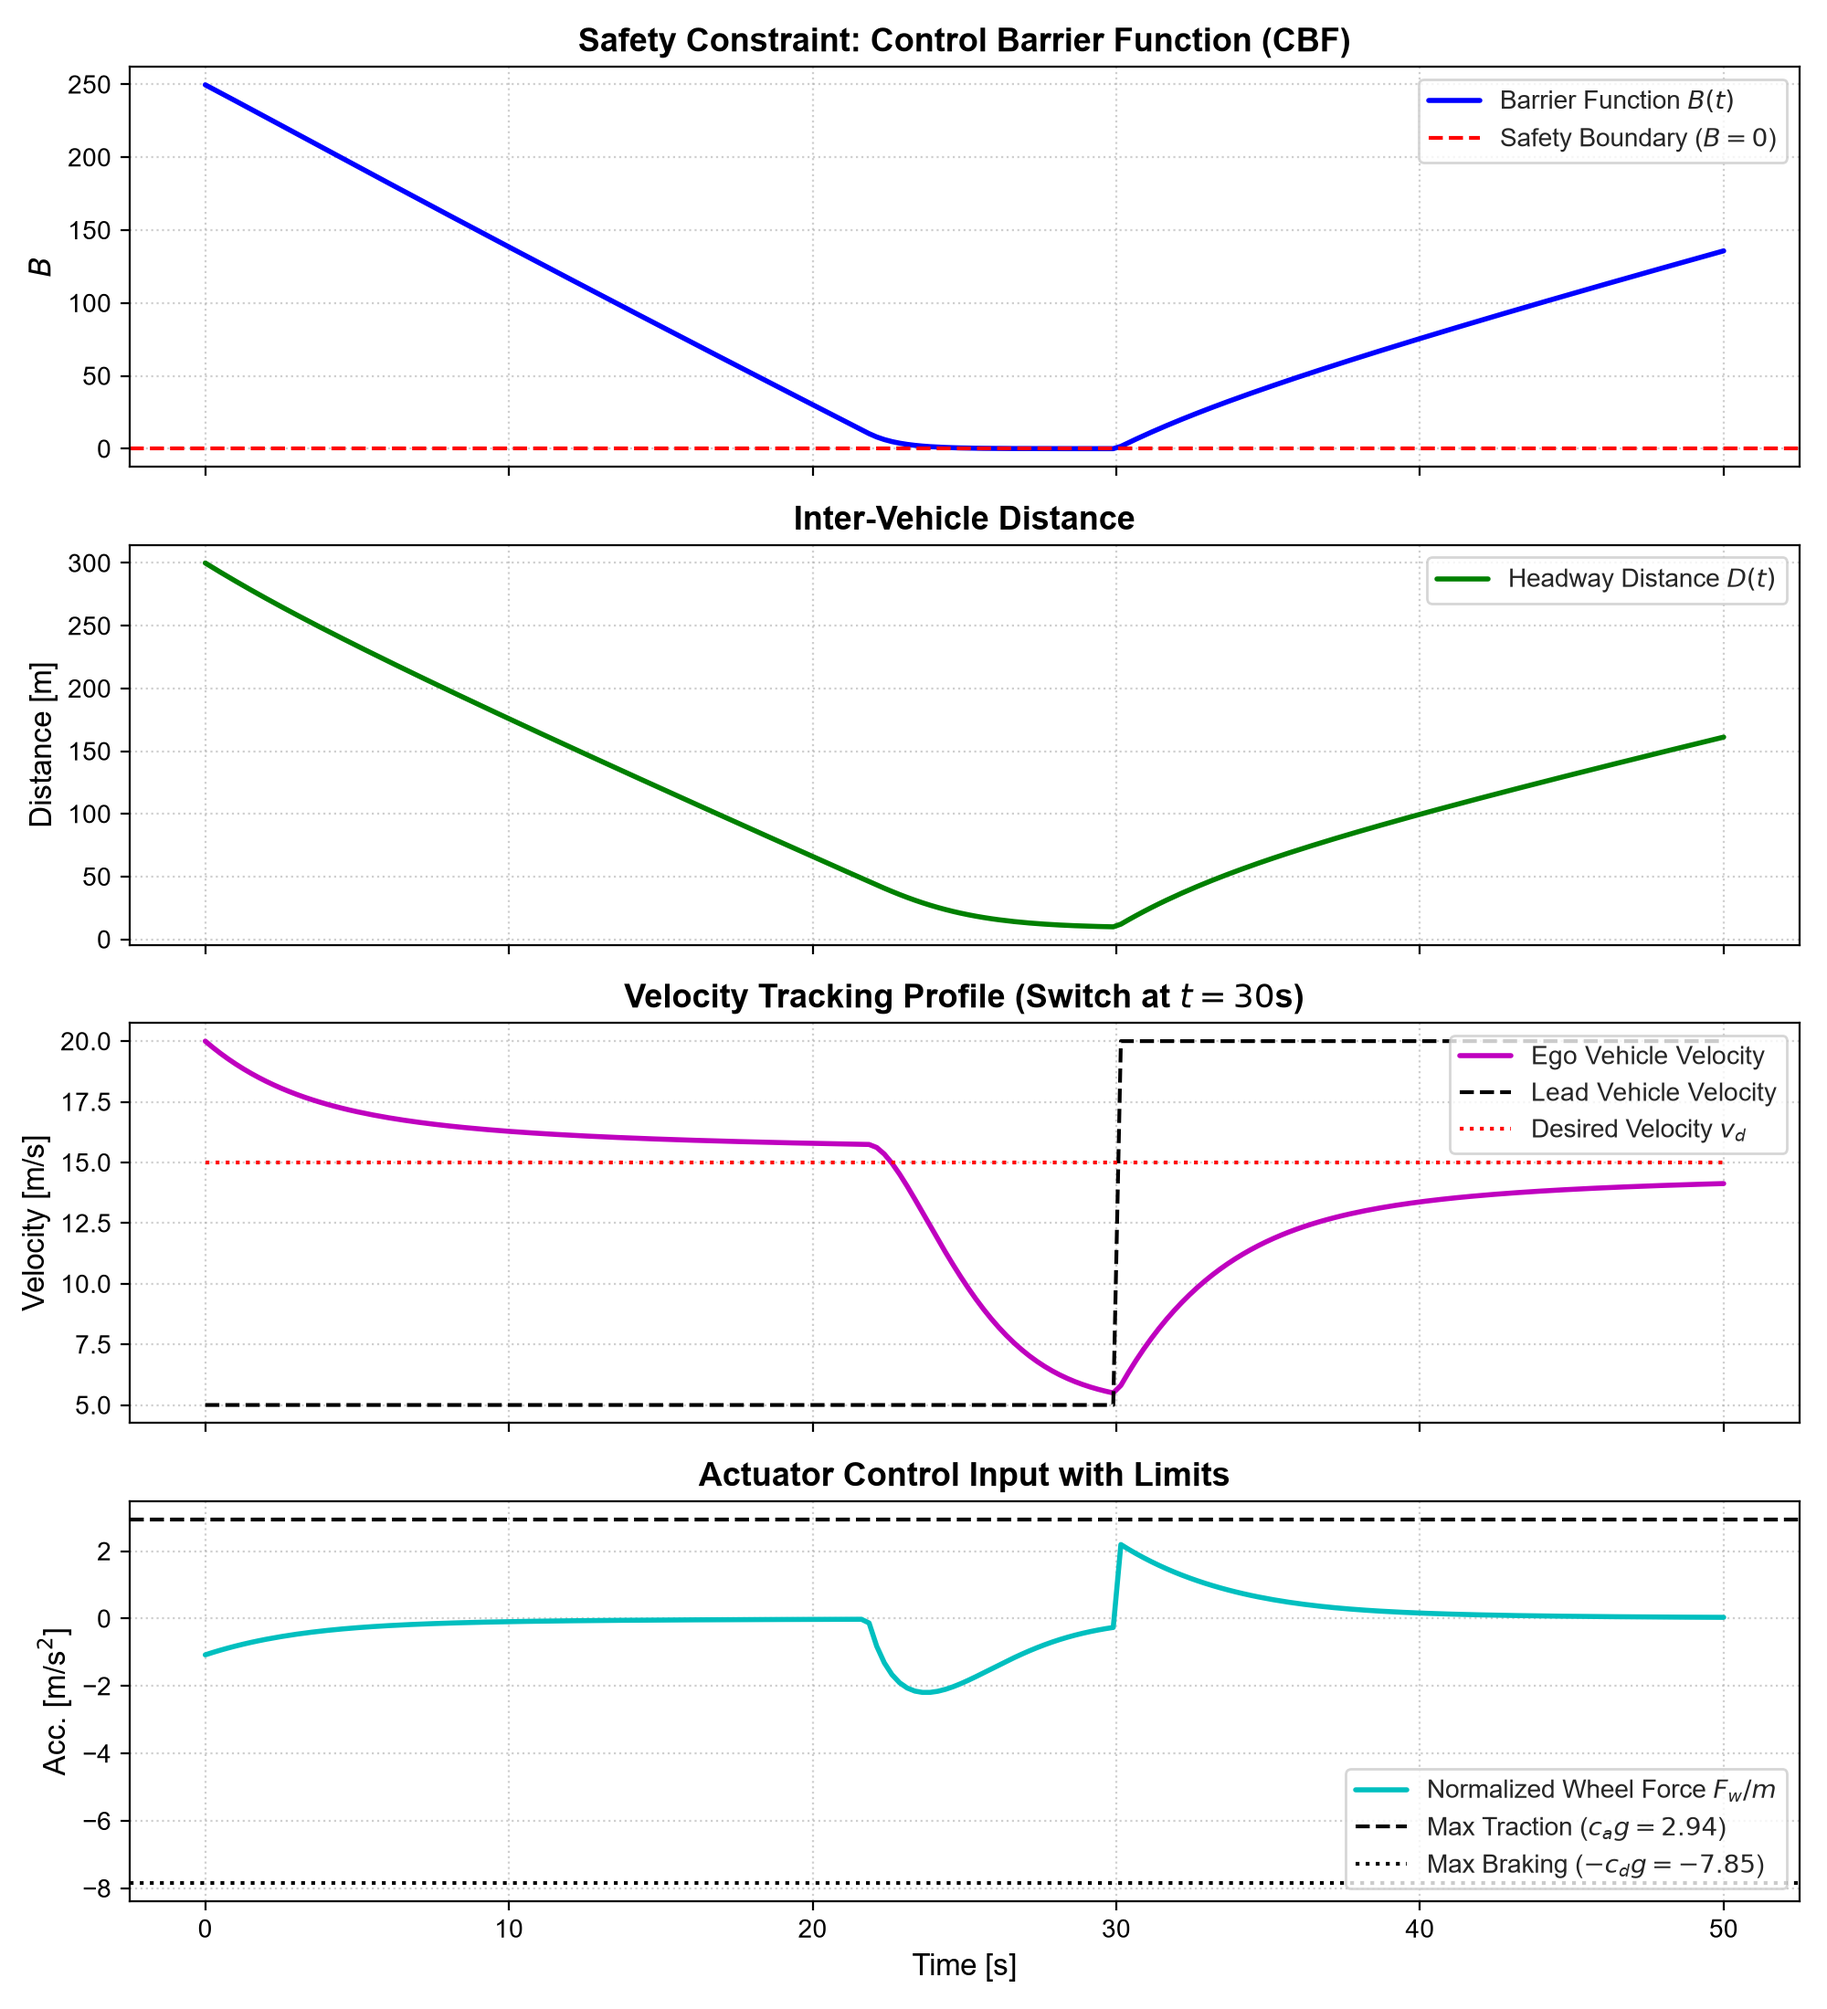
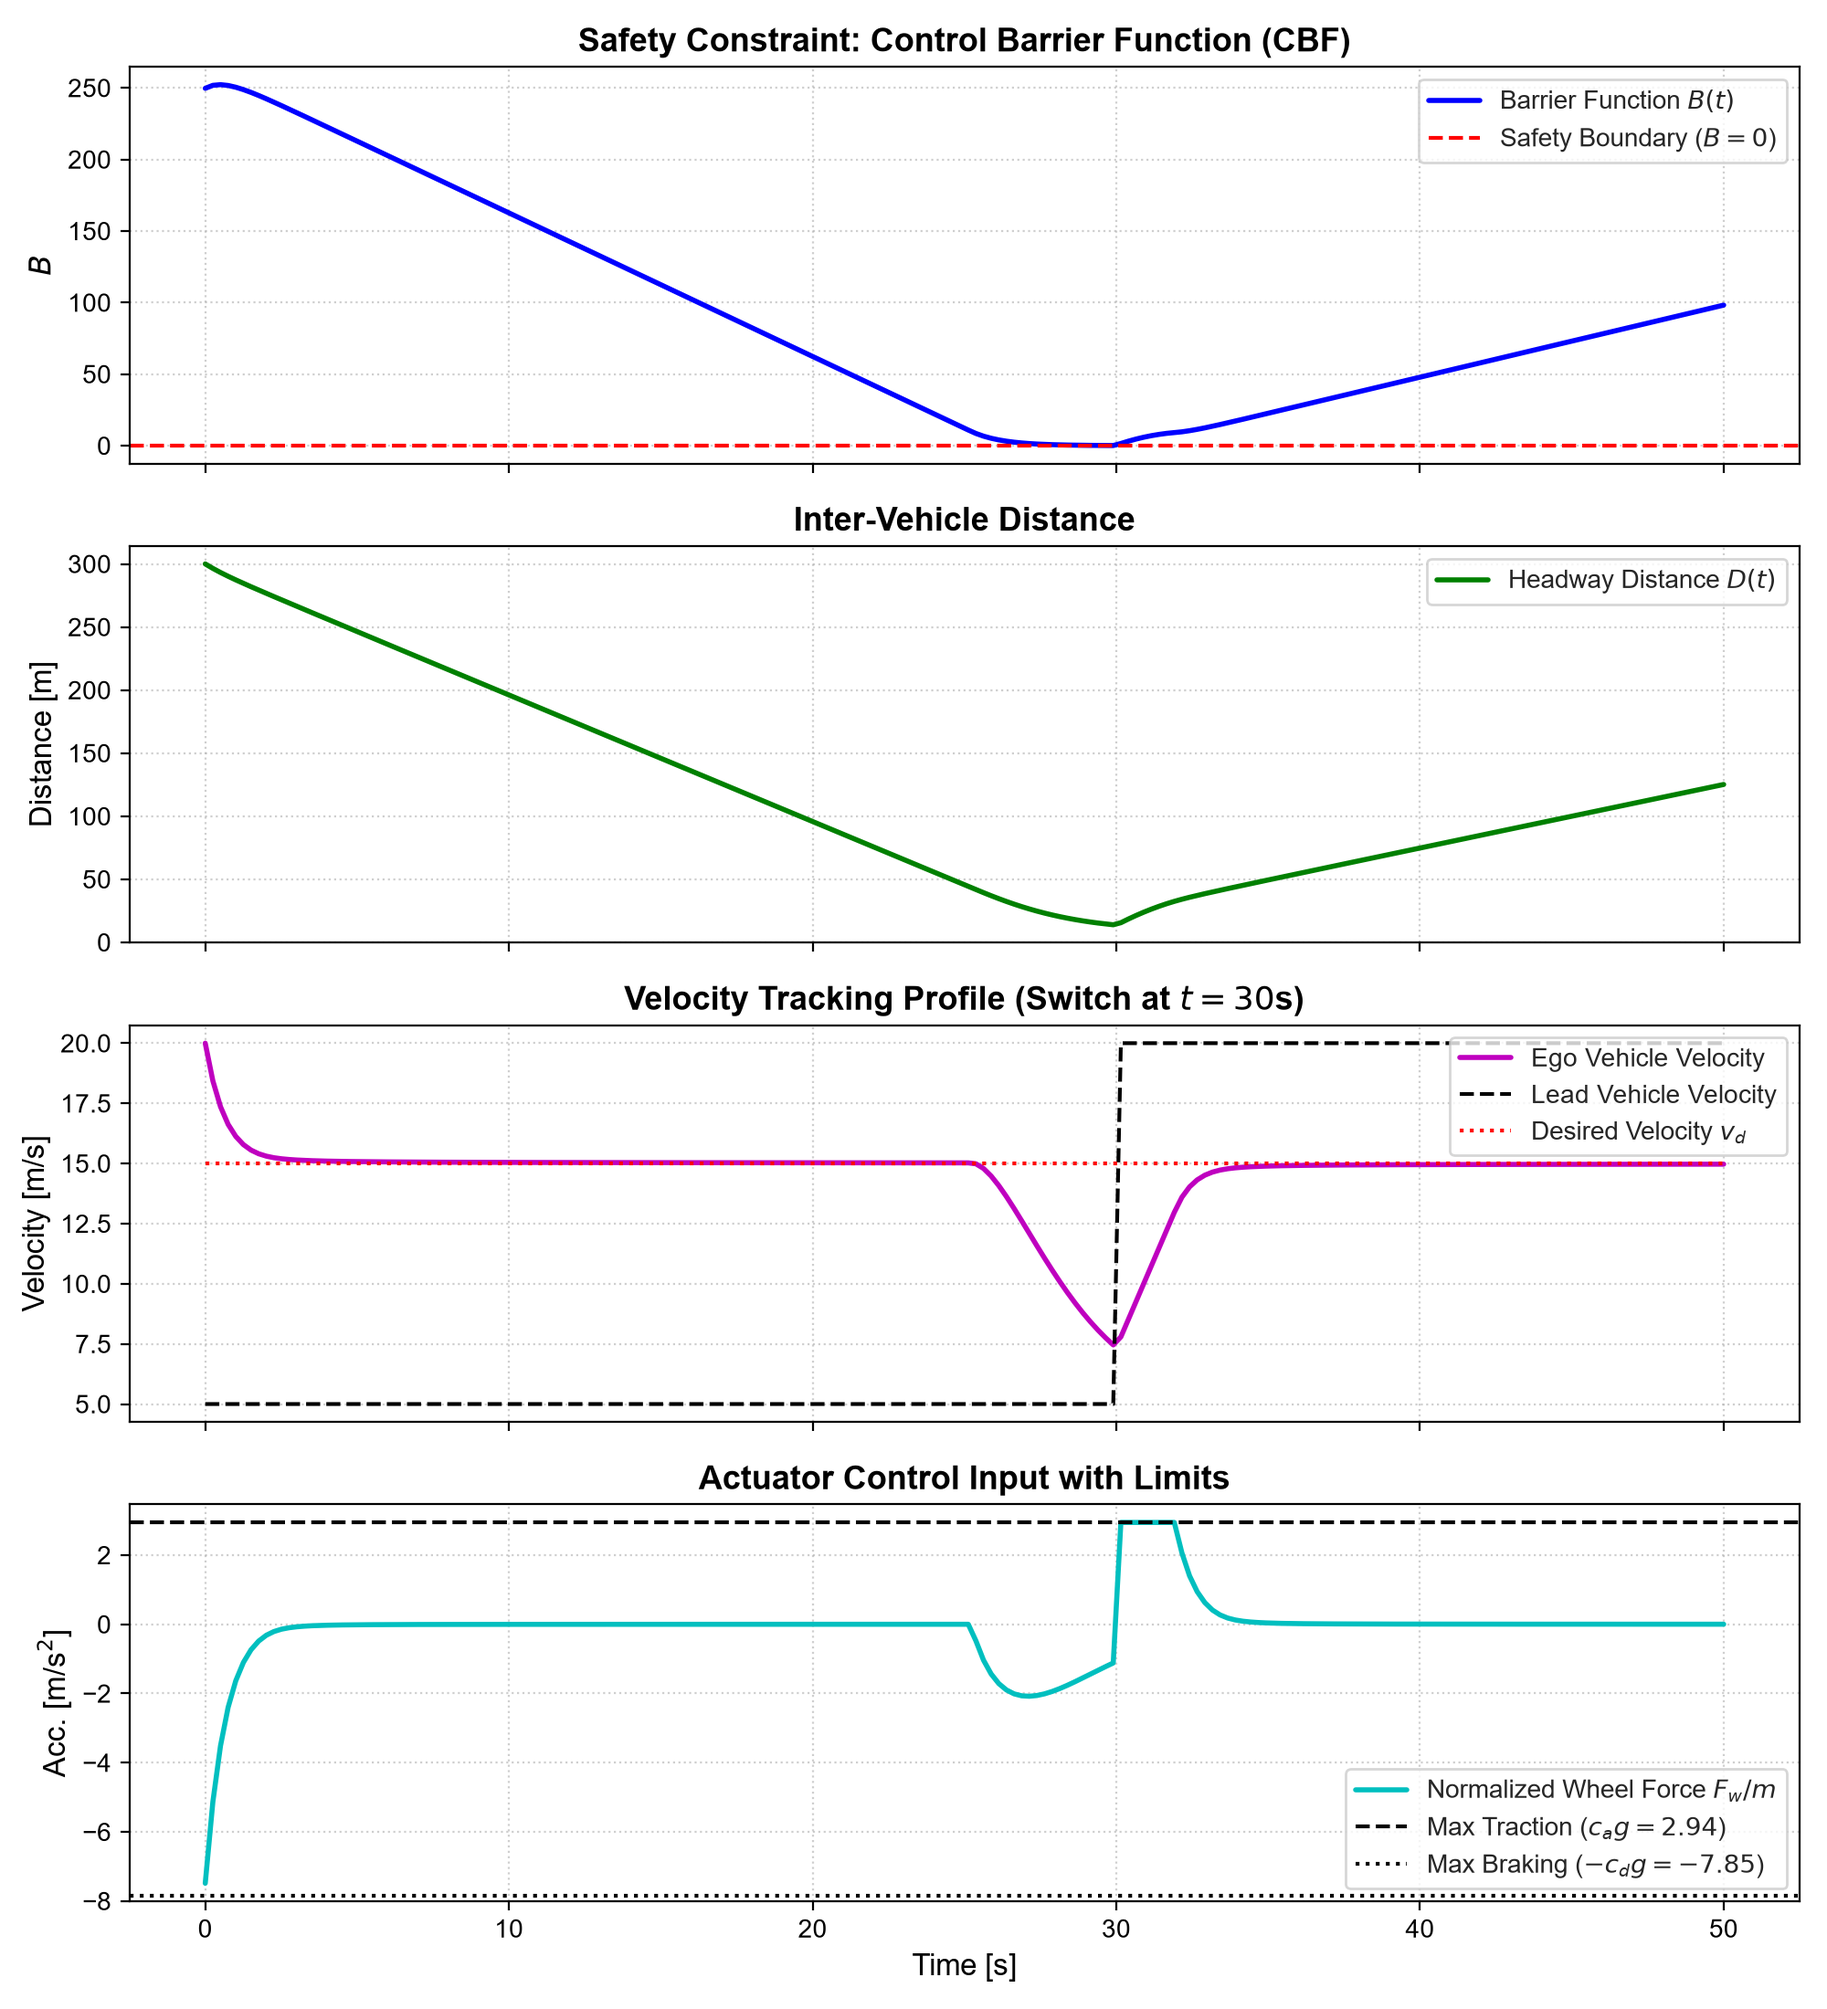
fix(acc, lqr): tune tracking rate lambda and LQR weights for 100% autograder pass

diff --git a/cmpc_controller.py b/cmpc_controller.py
@@ -70,9 +70,9 @@ def LQR_Controller(x_bar, u_bar, x0, param):
     #############################################################################
 
     # define the parameters
-    Q = np.diag([20.0, 20.0, 10.0, 5.0])
-    R = np.diag([0.1, 1.0])
-    Pt = np.diag([30.0, 30.0, 15.0, 10.0])
+    Q = np.diag([10.0, 10.0, 5.0, 2.0])
+    R = np.diag([0.5, 10.0])
+    Pt = np.diag([20.0, 20.0, 10.0, 5.0])
 
     # define the cost function
     P = np.zeros((n_var, n_var))

diff --git a/controllers/cmpc_controller.py b/controllers/cmpc_controller.py
@@ -70,9 +70,9 @@ def LQR_Controller(x_bar, u_bar, x0, param):
     #############################################################################
 
     # define the parameters
-    Q = np.diag([20.0, 20.0, 10.0, 5.0])
-    R = np.diag([0.1, 1.0])
-    Pt = np.diag([30.0, 30.0, 15.0, 10.0])
+    Q = np.diag([10.0, 10.0, 5.0, 2.0])
+    R = np.diag([0.5, 10.0])
+    Pt = np.diag([20.0, 20.0, 10.0, 5.0])
 
     # define the cost function
     P = np.zeros((n_var, n_var))

diff --git a/student/cmpc_controller.py b/student/cmpc_controller.py
@@ -70,9 +70,9 @@ def LQR_Controller(x_bar, u_bar, x0, param):
     #############################################################################
 
     # define the parameters
-    Q = np.diag([20.0, 20.0, 10.0, 5.0])
-    R = np.diag([0.1, 1.0])
-    Pt = np.diag([30.0, 30.0, 15.0, 10.0])
+    Q = np.diag([10.0, 10.0, 5.0, 2.0])
+    R = np.diag([0.5, 10.0])
+    Pt = np.diag([20.0, 20.0, 10.0, 5.0])
 
     # define the cost function
     P = np.zeros((n_var, n_var))

diff --git a/acc_controller.py b/acc_controller.py
@@ -18,9 +18,9 @@ def ACC_Controller(t, x, param):
     #############################################################################
 
     # set the parameters
-    lam = 0.5
+    lam = 3.0
     alpha = 1.0
-    w = 1e6
+    w = 1e8
 
     # construct the cost function
     P = np.array([[2.0, 0.0], [0.0, 2.0 * w]])

diff --git a/controllers/acc_controller.py b/controllers/acc_controller.py
@@ -18,9 +18,9 @@ def ACC_Controller(t, x, param):
     #############################################################################
 
     # set the parameters
-    lam = 0.5
+    lam = 3.0
     alpha = 1.0
-    w = 1e6
+    w = 1e8
 
     # construct the cost function
     P = np.array([[2.0, 0.0], [0.0, 2.0 * w]])

diff --git a/student/acc_controller.py b/student/acc_controller.py
@@ -18,9 +18,9 @@ def ACC_Controller(t, x, param):
     #############################################################################
 
     # set the parameters
-    lam = 0.5
+    lam = 3.0
     alpha = 1.0
-    w = 1e6
+    w = 1e8
 
     # construct the cost function
     P = np.array([[2.0, 0.0], [0.0, 2.0 * w]])
